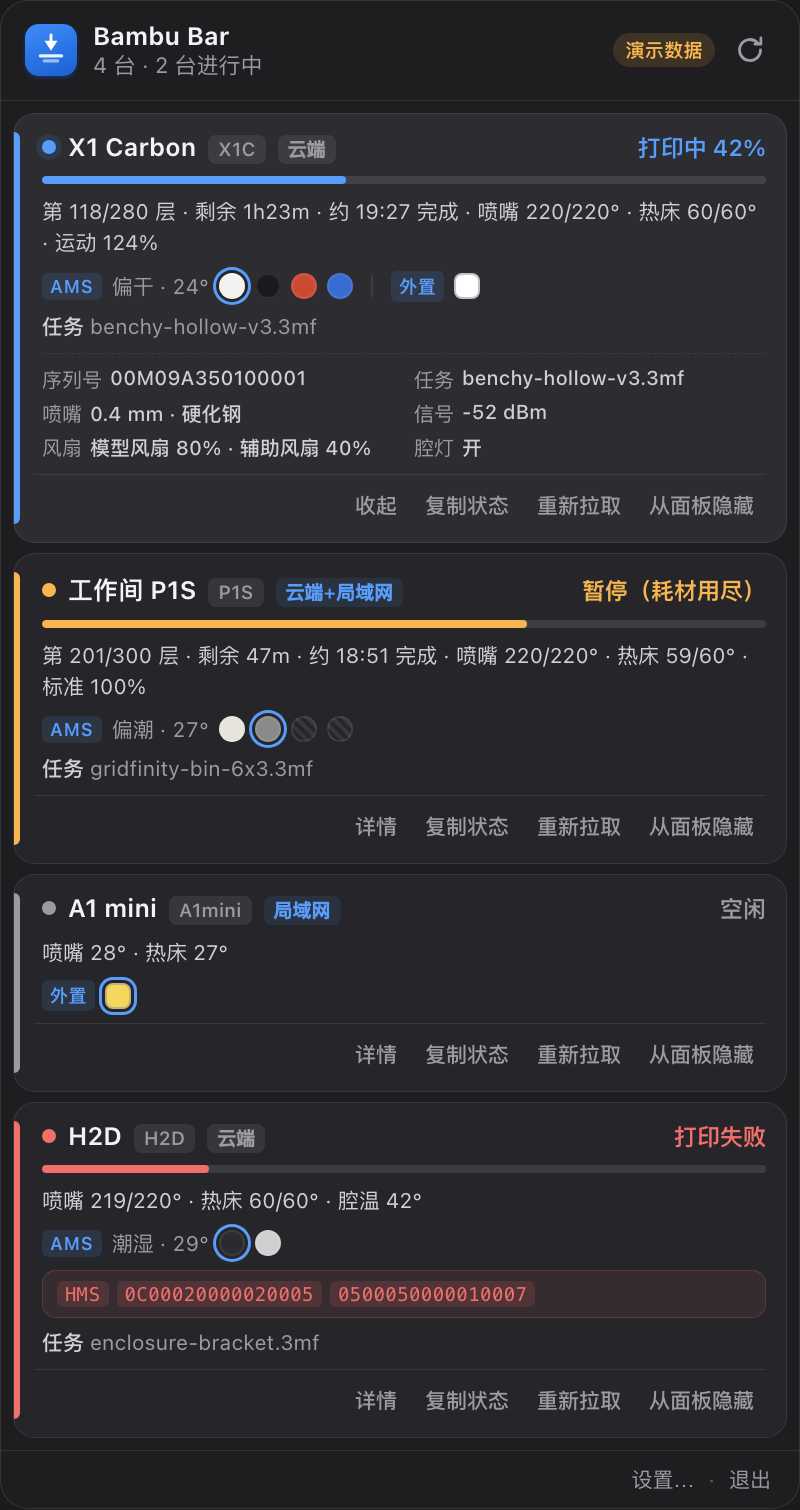
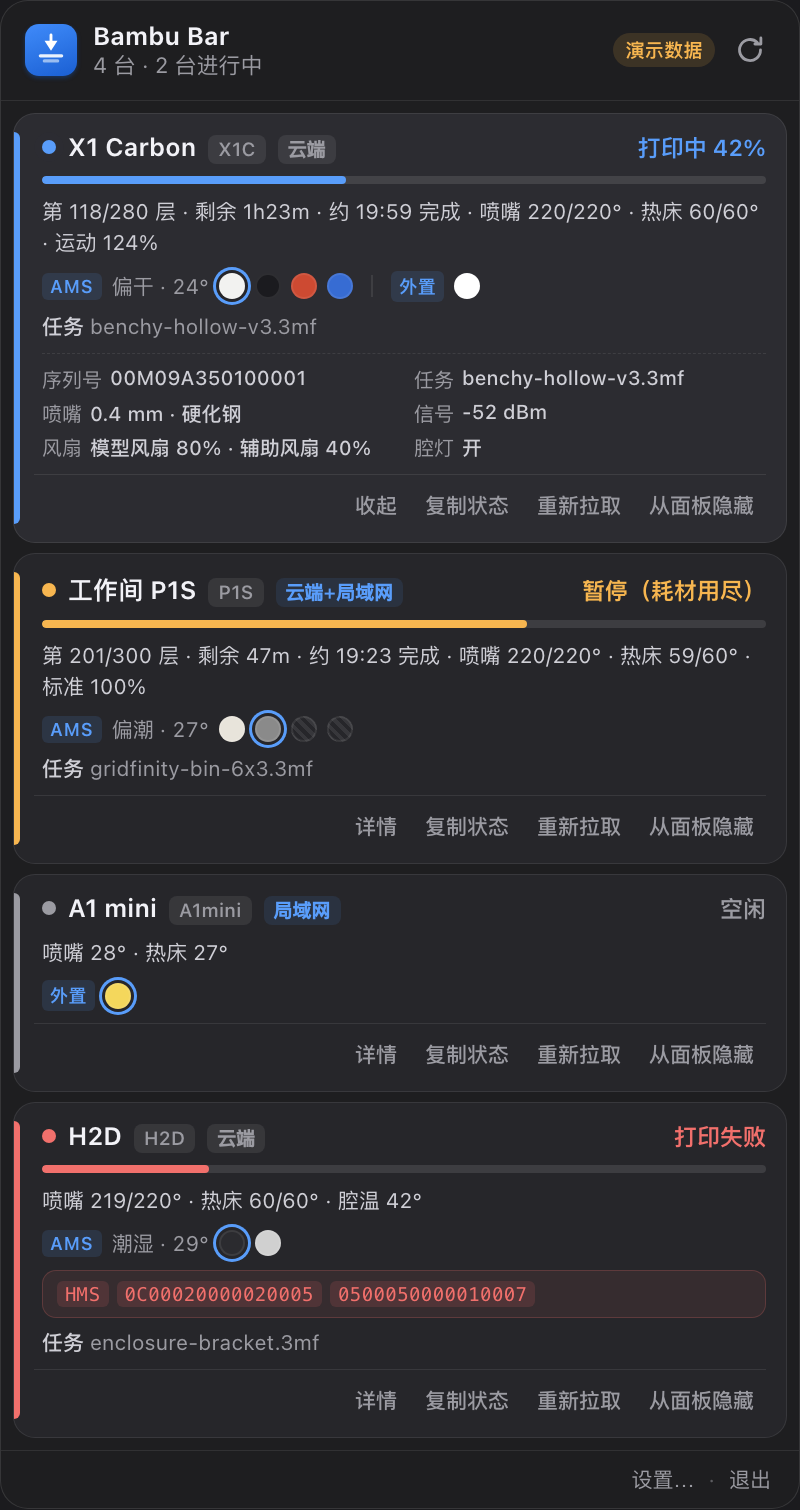
面板：外置料盘由方块改为圆点，与 AMS 槽完全一致
外置料盘原先画方块、AMS 槽画圆点，靠形状区分来源。两个形状并排会被读成
「方的是外置耗材、圆的是机内耗材」，但它们的区别其实是料从哪来（外挂 vs AMS），
不是耗材的种类。现在两边统一成圆点，来源只靠前面的 AMS / 外置 标签区分。

- 删除 .slot.ext 规则与 JS 里的 ext 类：圆点、边框、空槽斜纹、当前出料槽的
  蓝色双环全部与 AMS 槽一致。
- README 中英双语的耗材表与说明同步更新；重出四种预览截图与 8 张图文。
- 版本号 1.0.2 → 1.0.3。

diff --git a/src/popover/style.css b/src/popover/style.css
@@ -294,12 +294,8 @@ body {
 .slot.active {
   box-shadow: 0 0 0 1.5px var(--card), 0 0 0 3px var(--c-printing);
 }
-/* 外置料盘：形状（方）已足够和 AMS 的圆点区分，边框用实线 ——
-   以前这里靠虚线表示「没接」，现在没接就不渲染，方框恒表示「有料」。 */
-.slot.ext {
-  border-radius: 4px;
-  border: 1px solid color-mix(in srgb, var(--muted) 60%, transparent);
-}
+/* 外置料盘不再有自己的样式：圆点、边框、空槽斜纹、激活蓝环全部与 AMS 槽一致，
+   来源只靠前面的「外置」标签区分。早前外置画的是方块，形状并排会让人误以为是另一种东西。 */
 /* 段内分隔（AMS 多单元之间、AMS 段与外置段之间）。
    两段之间那道要更宽一点：AMS 段里既有料点又有温湿度，边界不拉开容易读成同一串。 */
 .ams-sep { width: 1px; height: 11px; background: var(--line); margin: 0 4px; }

diff --git a/src/popover/popover.js b/src/popover/popover.js
@@ -272,7 +272,9 @@ function updateCard(v) {
       const extTag = el('span', 'ams-tag', t('card.ext'));
       extTag.title = t('card.amsExt');
       q.ams.append(extTag);
-      const d = el('span', 'slot ext'
+      // 外置料盘的圆点和 AMS 槽长得一模一样 —— 来源靠前面的「外置」标签区分。
+      // 早前这里画的是方块（形状区分来源），但两种形状并排会让人以为外置料是另一种东西。
+      const d = el('span', 'slot'
         + (f.external.color ? '' : ' unknown')
         + (f.external.active ? ' active' : ''));
       if (f.external.color) d.style.setProperty('--c', f.external.color);

diff --git a/README.md b/README.md
@@ -74,12 +74,15 @@
 | 有颜色 | 实心圆点，直接设 `--c` |
 | `alpha = 00` | 斜纹灰点（`.slot.unknown`）—— 真机空槽报 `00000000`，若取前 6 位会被误当成黑料 |
 | 当前出料槽 | 外加一圈蓝色双环（`.slot.active`） |
-| 外挂料盘 | 圆点画成方形实线框（`.slot.ext`），与 AMS 槽区分 |
+| 外挂料盘 | 和 AMS 槽一样的圆点 —— 来源靠「外置」标签区分，不靠形状 |
 
 耗材这一行分两段，各带一个标签：`AMS` 和 `外置`。**没接的那段整段不渲染** ——
 标签只在真有这个来源时出现（`.ams-tag`，主色淡底），不存在「灰色占位」状态：
-A1 mini 只挂外挂料盘，就只画 `外置 ▢`；接了 AMS 没接外挂，就只画 `AMS … ● ● ● ●`。
+A1 mini 只挂外挂料盘，就只画 `外置 ●`；接了 AMS 没接外挂，就只画 `AMS … ● ● ● ●`。
 分隔符也只在两段都在时才画。
+
+> 外置料盘早前画的是方块（靠形状与 AMS 槽区分），后来改成圆点：两种形状并排会让人
+> 以为「外置」是另一种东西，而来源标签已经说清楚了。
 
 AMS 的温湿度（`偏干 · 24°`）紧跟在 `AMS` 标签后面，留在 AMS 段里 —— 它是 AMS 单元自带
 传感器的读数（`ams.ams[].humidity` / `.temp`），既不是打印机腔温，也不属于外置料盘；
@@ -295,7 +298,7 @@ Built on top of [YingyiDai/bambu-buddy](https://github.com/YingyiDai/bambu-buddy
 
 **Colours** are keyed to *status*, not to the printer: a printer changes state and the whole card changes colour, while two printers in the same state share it. Six semantic colours, one set for light and one for dark (`src/popover/style.css:22-26` / `46-50`): printing `#0a7cff` / `#4c9dff`, paused `#d98300` / `#ffb340`, failed `#d92d20` / `#ff6369`, finished `#1f9d4d` / `#4ac26b`, idle `#86868b` / `#9b9ba2`, offline `#b4b4b9` / `#6a6a72`. `statusClassFromStateKey()` (`src/core/live-telemetry.js:16-27`) folds all 78 `stg_cur` stages into those six; its `default` branch means every recognised-but-unlisted stage counts as printing, so preparing and changing filament get no hue of their own — keeping the palette at six hues is what lets an outlier jump out while scanning. The chosen colour lands in the CSS variable `--st`, shared by four places: the 3px bar down the left of the card, the dot beside the title (pulsing while printing), the status text on the right, and the progress-bar fill.
 
-Filament swatches are a second, independent colour source, reported by the printer as `tray_color` in `RRGGBBAA` rather than defined by the app. `alpha = 00` means "no colour" and renders as a hatched grey dot — real printers report `00000000` for an empty slot, so reading only the first six digits would show it as black filament. The row is split into an `AMS` segment and an `EXT` (external spool) segment, each with its own label; a segment the machine does not have is simply not rendered (no greyed-out placeholder, and the divider only appears when both segments exist). Two labels rather than one because an A1 mini with only an external spool used to render that spool behind the single `AMS` label, which read as "a roll loaded in the AMS". The currently extruding slot gets a blue double ring, the external spool is drawn as a square with a solid outline (shape alone keeps it distinct from the round AMS slots, and the solid outline keeps white filament from looking like an empty slot), and while printing the progress bar fill now follows the status colour like every other accent (blue printing / amber paused / red failed / green finished) rather than the filament colour — a black filament turned the bar into a black stripe that clashed with the card's semantic palette and no longer read as "printing". The filament colour stays where it belongs, on the swatch dots.
+Filament swatches are a second, independent colour source, reported by the printer as `tray_color` in `RRGGBBAA` rather than defined by the app. `alpha = 00` means "no colour" and renders as a hatched grey dot — real printers report `00000000` for an empty slot, so reading only the first six digits would show it as black filament. The row is split into an `AMS` segment and an `EXT` (external spool) segment, each with its own label; a segment the machine does not have is simply not rendered (no greyed-out placeholder, and the divider only appears when both segments exist). Two labels rather than one because an A1 mini with only an external spool used to render that spool behind the single `AMS` label, which read as "a roll loaded in the AMS". The currently extruding slot gets a blue double ring, and the external spool is drawn as the same round dot as an AMS slot — the segment label already says where the filament comes from, and two shapes side by side read as two different kinds of material (it used to be a square). While printing, the progress bar fill follows the status colour like every other accent (blue printing / amber paused / red failed / green finished) rather than the filament colour — a black filament turned the bar into a black stripe that clashed with the card's semantic palette and no longer read as "printing". The filament colour stays where it belongs, on the swatch dots.
 
 **Appearance** lives in Settings → General (follow system / light / dark) and applies instantly without a restart: the setting only writes `nativeTheme.themeSource`, and both windows take their colours from CSS `prefers-color-scheme`. The panel header keeps a single refresh button — the icon that used to sit there read as a brightness toggle while actually opening settings, so the only settings entry is now the footer link.
 
